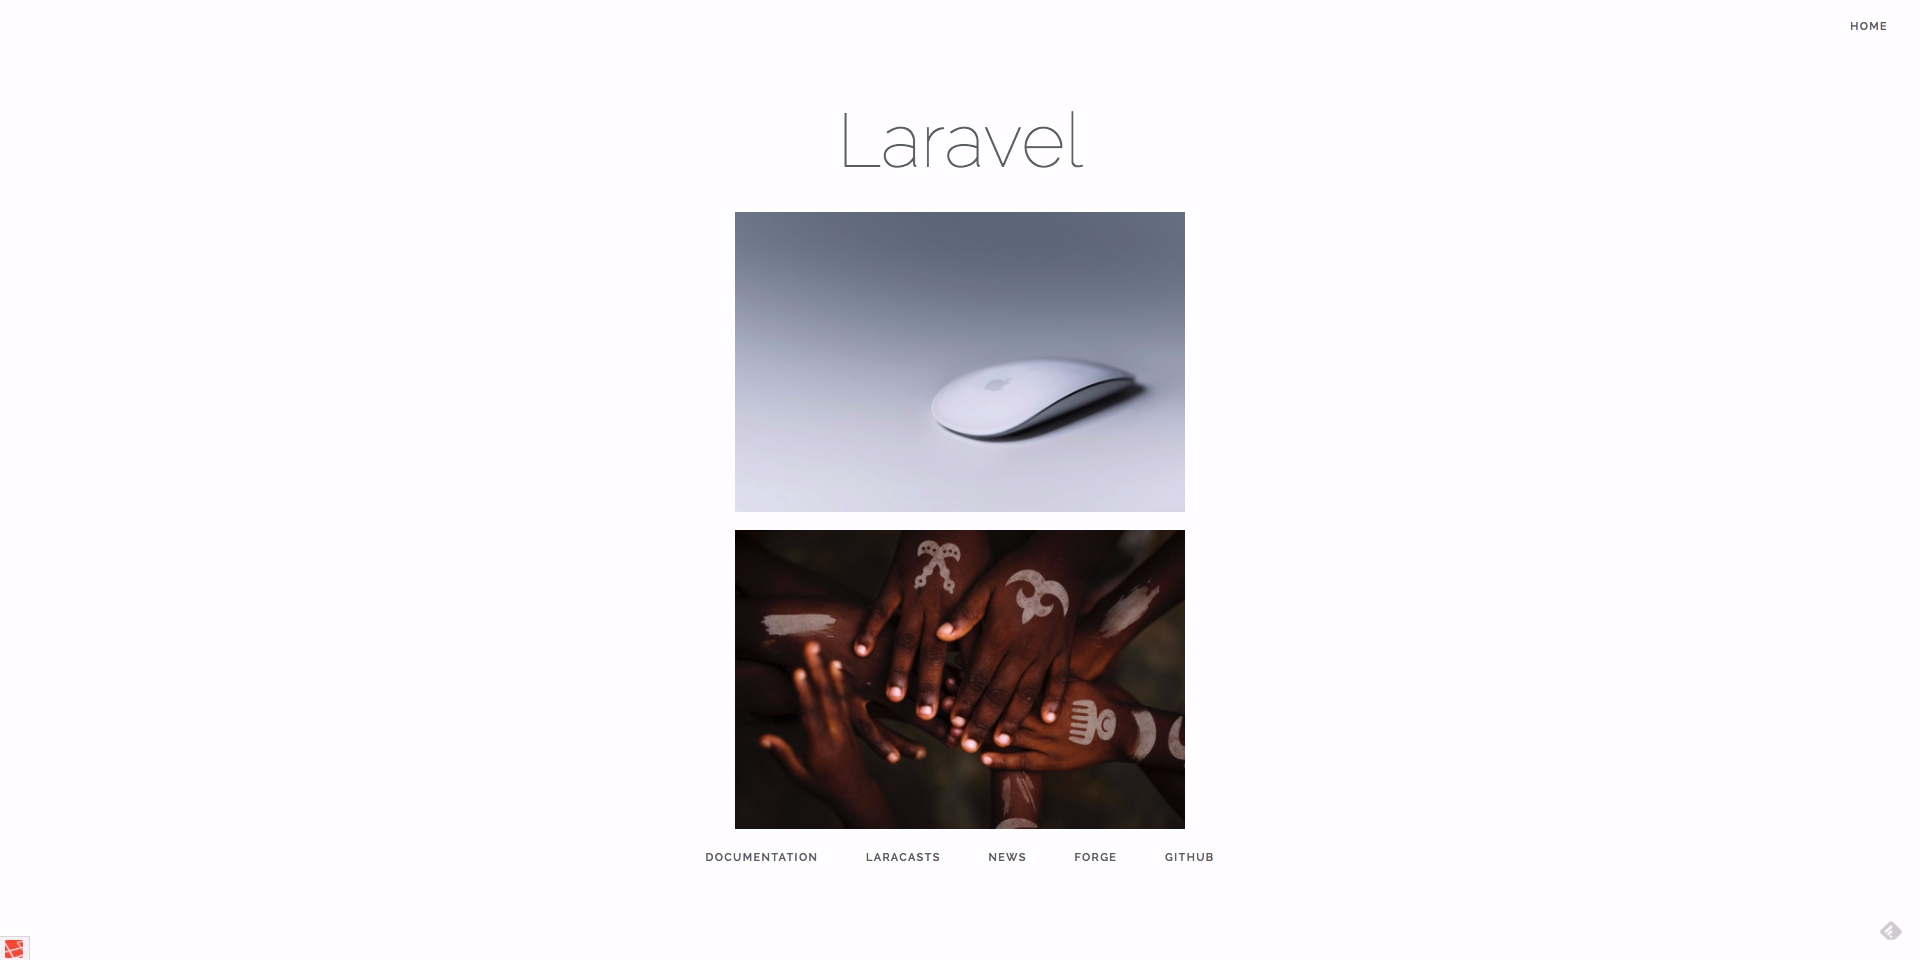
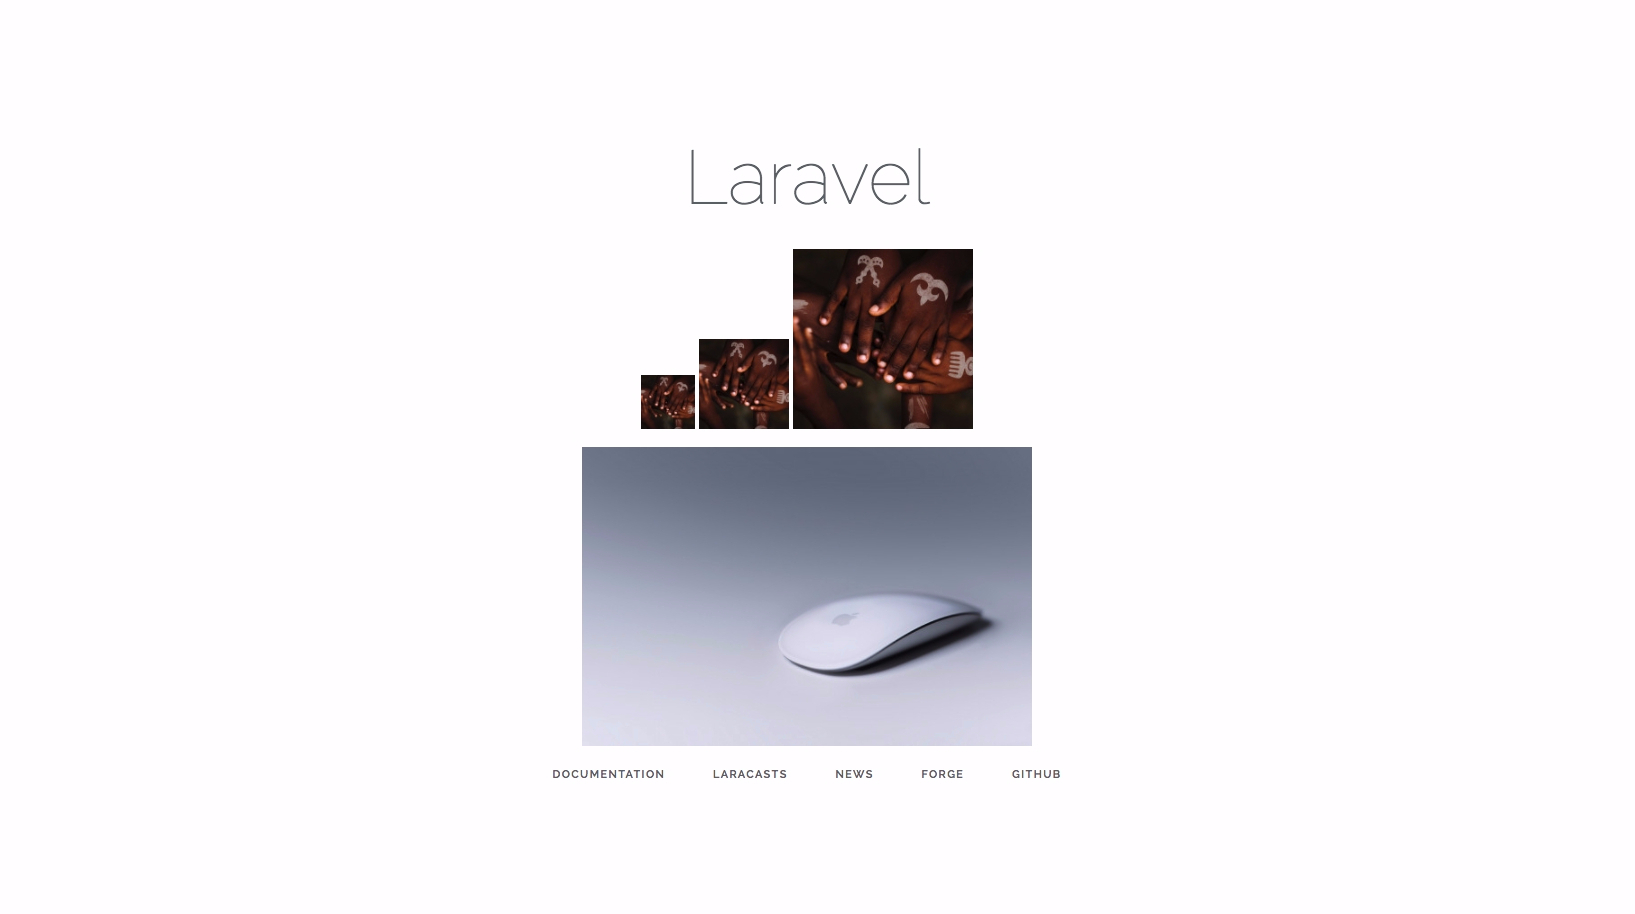
Feature : resize image based on predefined presets - imgPresetMethod()

Changed region(s): [[0.3431, 0.1225, 0.655, 0.919], [0.967, 0.9497, 0.9982, 0.9803], [0.0, 0.9803, 0.0312, 1.0]]

diff --git a/src/Classes/ImgFly.php b/src/Classes/ImgFly.php
@@ -7,42 +7,62 @@ use Illuminate\Support\Facades\Facade;
 class ImgFly
 {
 
-	public function routes() {
-		include __DIR__.'../../Routes/web.php';
-	}
+    public function routes()
+    {
+        include __DIR__ . '../../Routes/web.php';
+    }
 
-	/**
-	 * Display images in storage/app
-	 *
-	 * @deprecated v0.1beta use img()
-	 * @param [string] $image_str
-	 * @return void
-	 */
-	public function imgFly($image_str) {
-		return url('imgfly/images/'.$image_str);
-	}
+    /**
+     * Display images in storage/app
+     *
+     * @deprecated v0.1beta use img()
+     * @param [string] $image_str
+     * @return void
+     */
+    public function imgFly($image_str)
+    {
+        return url('imgfly/images/' . $image_str);
+    }
 
-	/**
-	 * Display images in storage/app
-	 *
-	 *
-	 * @param [string] $image_str
-	 * @return void
-	 */
-	public function img($image_str) {
-		return url('imgfly/images/'.$image_str);
-	}
+    /**
+     * Display images in storage/app
+     *
+     *
+     * @param [string] $image_str
+     * @return void
+     */
+    public function img($image_str)
+    {
+        return url('imgfly/images/' . $image_str);
+    }
 
 
-	/**
-	 * Display images from public/img
-	 *
-	 * @param [string] $image_str
-	 * @param string $dir
-	 * @return void
-	 */
-	public function imgPublic($image_str, $dir = 'img'){
-		return url("imgfly/public/$dir/$image_str");
-	}
+    /**
+     * Display images from public/img
+     *
+     * @param [string] $image_str
+     * @param string $dir
+     * @return void
+     */
+    public function imgPublic($image_str, $dir = 'img')
+    {
+        return url("imgfly/public/$dir/$image_str");
+    }
+
+    /**
+     * @param string $preset
+     * @param null|string $storageMethod
+     * @return mixed
+     */
+    public function imgPreset($img, $preset = 'small', $storageMethod = 'img')
+    {
+
+
+        $parameters = config("imgfly.{$preset}");
+
+      return  call_user_func([$this, $storageMethod], $img.$parameters);
+
+    }
+
 
 }

diff --git a/src/Config/imgfly.php b/src/Config/imgfly.php
@@ -1,3 +1,15 @@
 <?php
 
-return [];
+return [
+
+    "icon" => "?w=60&h=60&fit=crop-center",
+
+    "small" => "?w=100&h=100&fit=crop-center",
+
+    "thumbnail" => "?w=200&h=200&fit=crop-center",
+
+    "medium" => "?w=600&h=400&fit=crop-center",
+
+    "large" => "?w=1200&h=600&fit=crop-center",
+
+];
